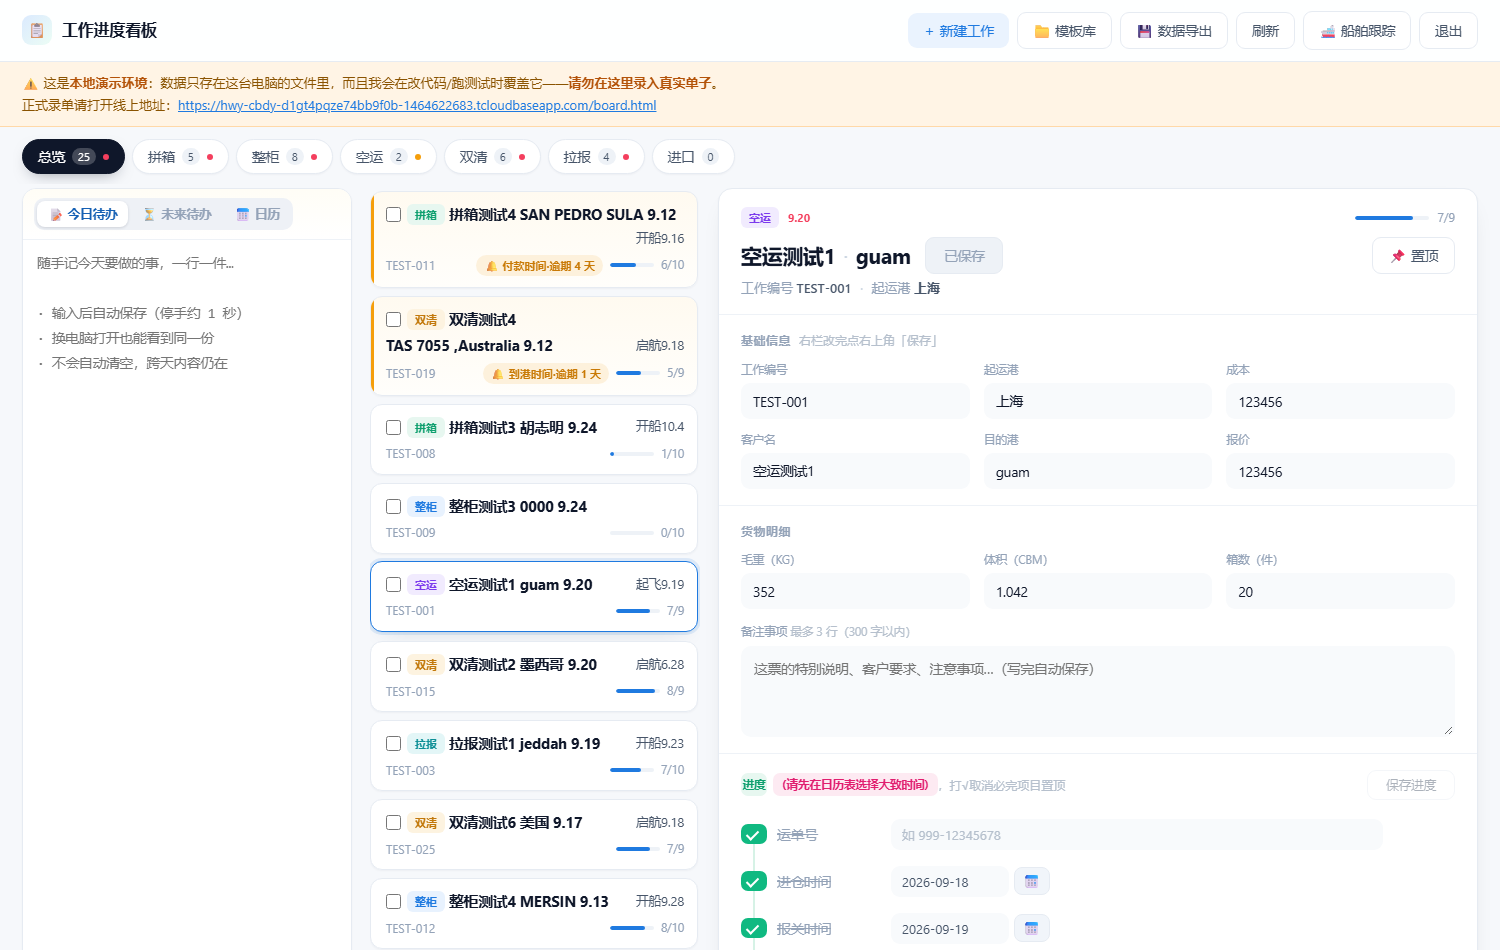
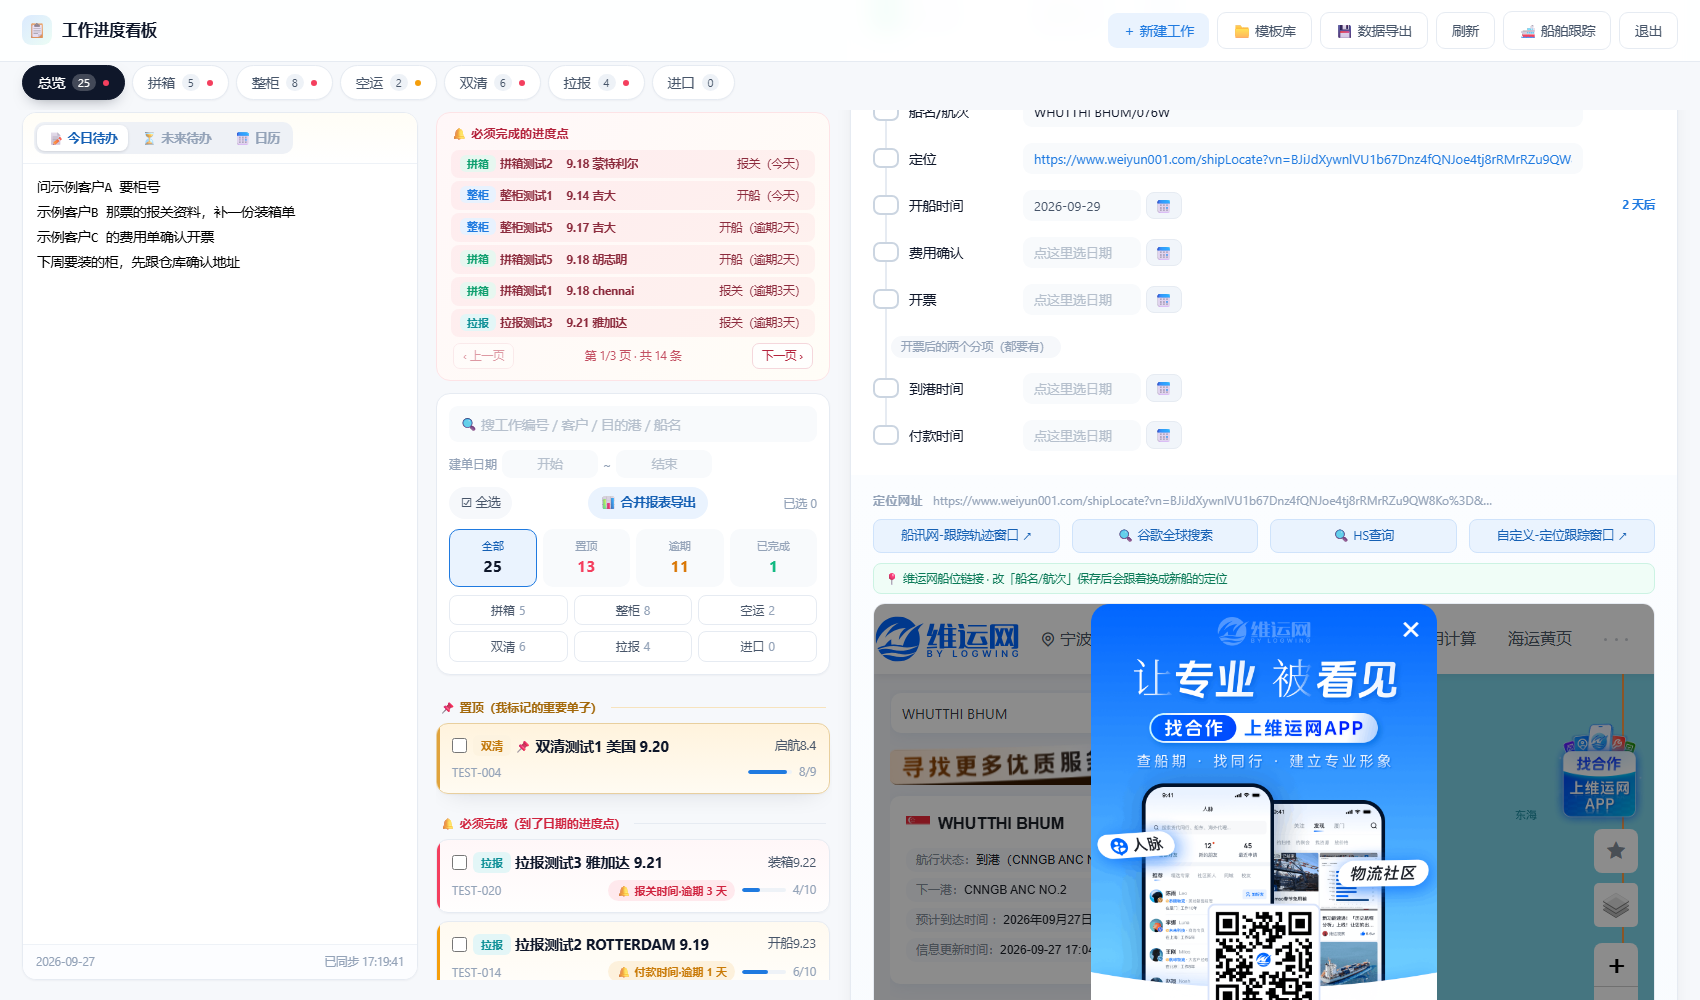
deploy: 更新宣传官网

diff --git a/index.html b/index.html
@@ -185,8 +185,8 @@
       <div class="shots">
         <figure class="shot">
           <img src="./assets/shots/shot-board.png" loading="lazy"
-               alt="工作进度看板：左栏一票一行列出客户名与目的港，顶部是橙色逾期提醒条，右栏是这一票的进度打钩表。">
-          <figcaption>工作进度看板：左栏一票一行，右栏打钩，顶部提醒条</figcaption>
+               alt="工作进度看板全貌：左侧是今日待办面板，中间是工作单列表（带类别、统计卡、置顶与必须完成分组），右侧是这票单子的进度打钩表与定位区，下面嵌着维运网的船舶跟踪页。">
+          <figcaption>一屏看全：左待办 · 中列表（置顶 / 必须完成）· 右进度与定位，维运网跟踪页直接嵌在里面</figcaption>
         </figure>
         <figure class="shot">
           <img src="./assets/shots/shot-expense.png" loading="lazy"
